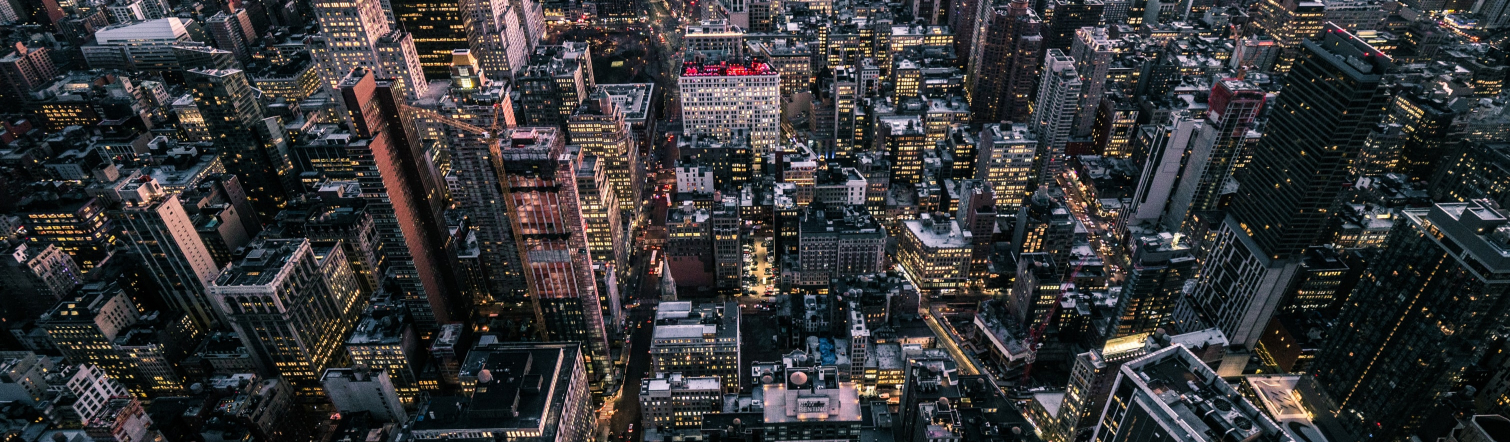
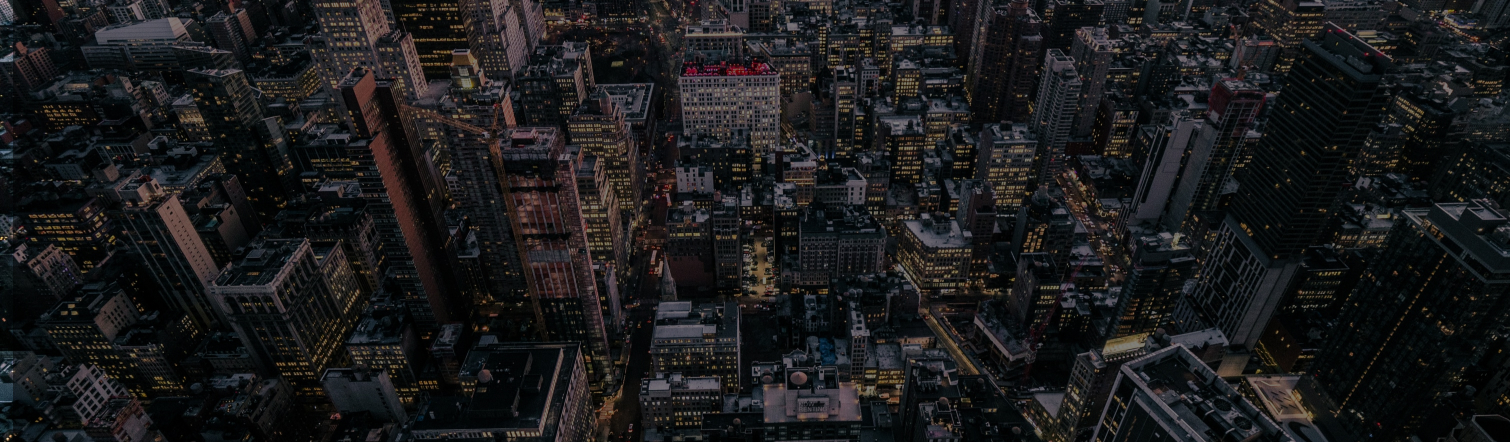
HW 6: Changed background-img in design-block

diff --git a/index.html b/index.html
@@ -17,7 +17,7 @@
             <div class="container">
                 <div class="header-block__inner">
                     <div class="header-block__logo">
-                        <img class="header-block__logo-img" src="images/logo.svg" alt="logo">
+                        <img class="header-block__logo-img" src="images/logo.svg" alt="logo" width="87px" height="31px">
                     </div>
                     <nav class="header-block__nav">
                         <ul class="header-block__nav-list">
@@ -40,7 +40,7 @@
                 <div class="container">
                     <div class="banner-block__inner">
                         <div class="banner-block__inner-text">
-                            <img class="banner-block__inner-logo" src="images/tall-logo.svg" alt="logo">
+                            <img class="banner-block__inner-logo" src="images/tall-logo.svg" alt="logo" width="170px" height="55px">
                             <h1 class="banner-block__inner-title">MODERN AXURE TEMPLATE FOR BEAUTIFUL PROTOTYPES</h1>
                             <p class="banner-block__inner-description description">Lorem ipsum dolor sit amet,
                                 consectetur adipiscing elit</p>
@@ -64,9 +64,9 @@
                 <section class="tabs-block">
                     <ul class="tabs-block__list-buttons">
                         <li class="tabs-block__list-item"><button
-                                class="tabs-block__list-btn tabs-block__list-btn--active">tab 1</button></li>
-                        <li class="tabs-block__list-item"><button class="tabs-block__list-btn">tab 2</button></li>
-                        <li class="tabs-block__list-item"><button class="tabs-block__list-btn">tab 3</button></li>
+                                class="tabs-block__list-btn tabs-block__list-btn--active" type="button">tab 1</button></li>
+                        <li class="tabs-block__list-item"><button class="tabs-block__list-btn" type="button">tab 2</button></li>
+                        <li class="tabs-block__list-item"><button class="tabs-block__list-btn" type="button">tab 3</button></li>
                     </ul>
                     <div class="tabs-block__inner-content">
                         <div class="tabs-block__text">
@@ -86,7 +86,7 @@
                             </div>
                             <button class="tabs-block__download-btn download-button" type="button">Download</button>
                         </div>
-                        <img class="tabs-block__statue-img" src="images/Statue.jpg" alt="statue">
+                        <img class="tabs-block__statue-img" src="images/Statue.jpg" alt="statue" width="100%" height="100%">
                     </div>
                 </section>
                 <section class="awesome-block">

diff --git a/css/design-block.css b/css/design-block.css
@@ -2,7 +2,8 @@
     text-align: center;
     margin-top: 60px;
     padding-top: 110px;
-    background: linear-gradient( rgba(0, 0, 0, 0.5), rgba(0, 0, 0, 0.5) ), url('../images/design-bg.jpg');
+    background-image: url('../images/design-bg.jpg');
+    background-color: #3d3d3d;
     color: #ffffff;
     padding-bottom: 50px;
 }
